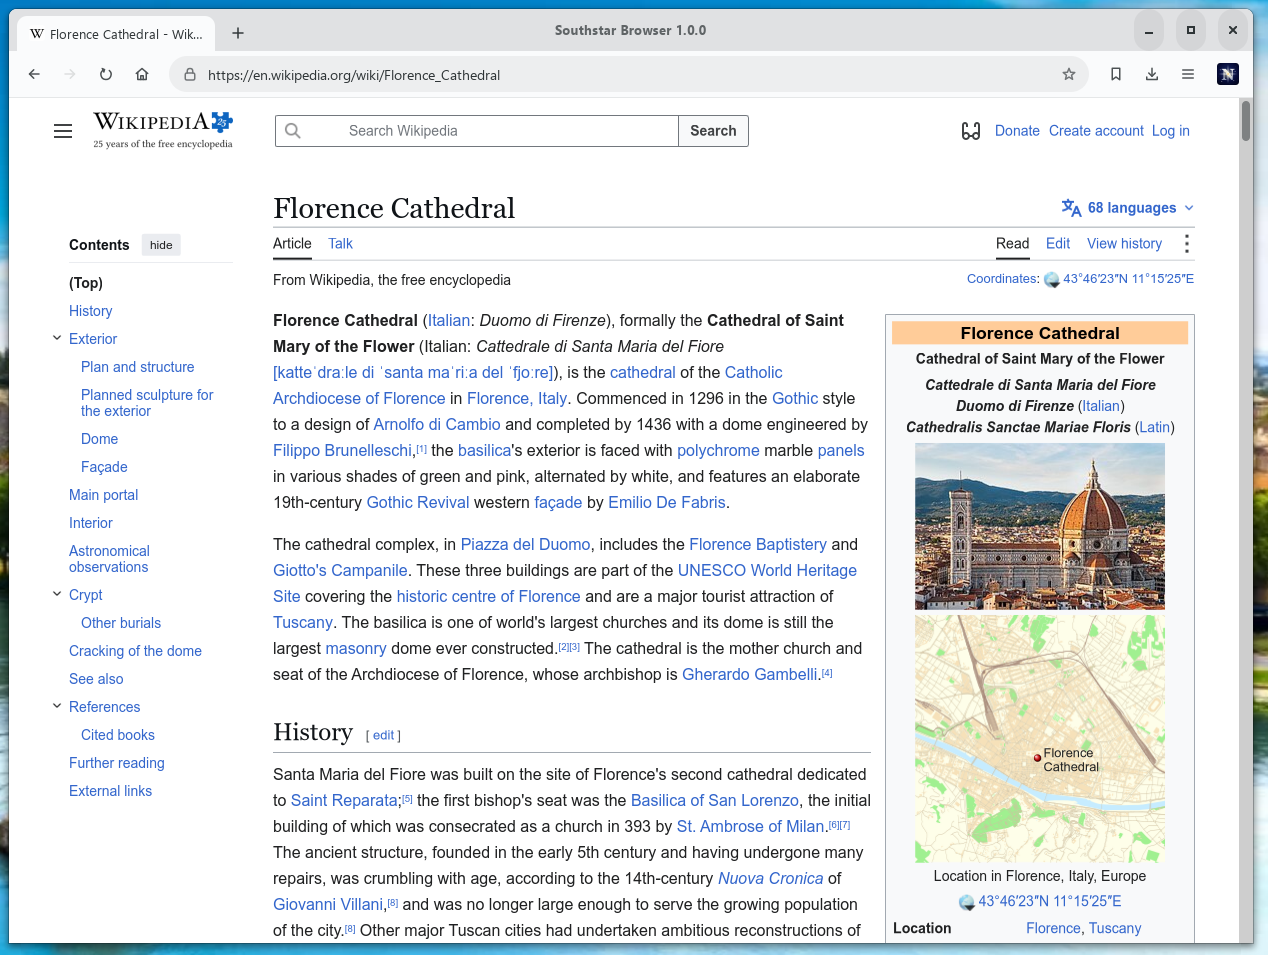
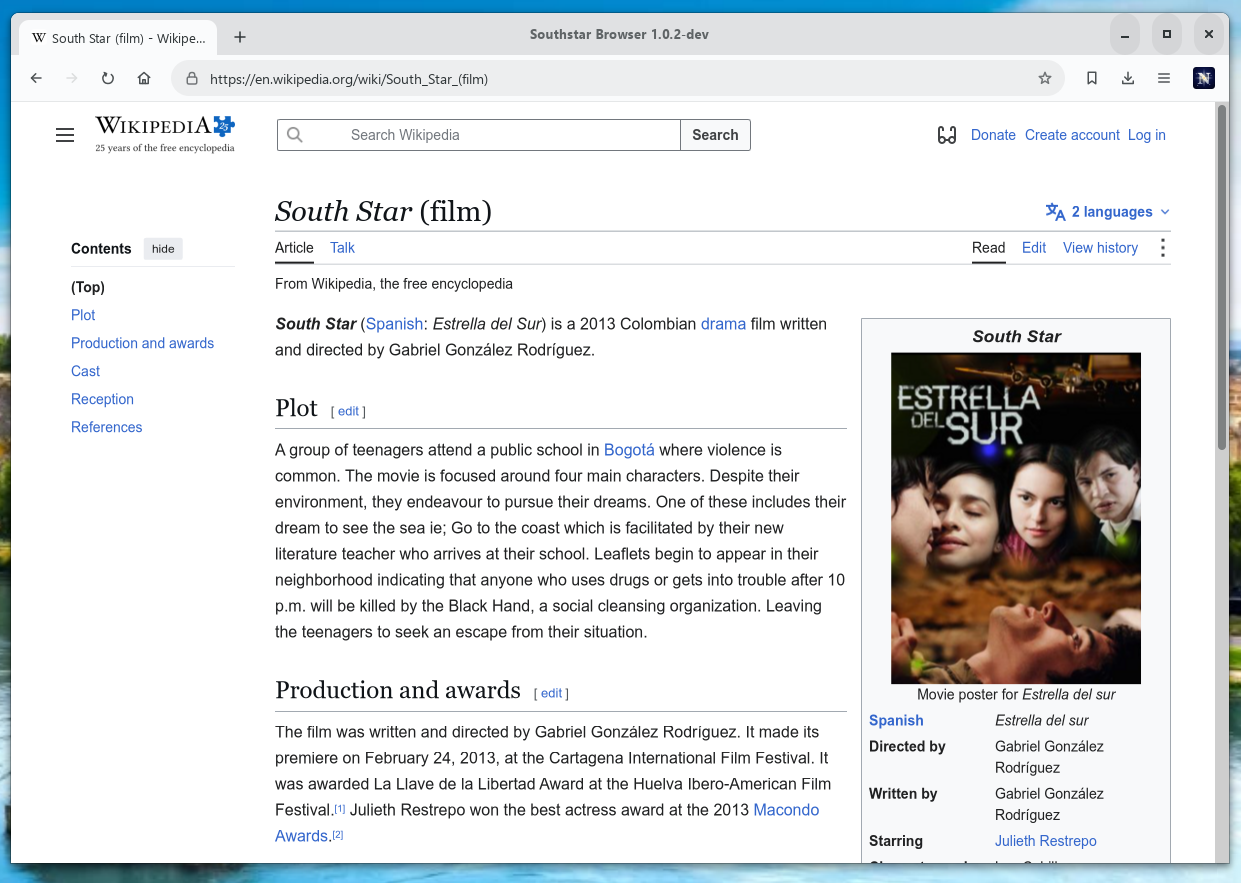
Update the README screenshot to the current build
The new screenshot shows Southstar Browser 1.0.2-dev on Windows rendering
the English Wikipedia article for South Star (film); the README's alt text
now describes it.

Changed region(s): [[0.0, 0.0, 1.0, 1.0], [0.7349, 0.1223, 0.9492, 0.1835]]

diff --git a/README.md b/README.md
@@ -14,7 +14,7 @@ C went, the QuickJS-ng engine included. All of Southstar's own code is now
 Rust; C remains only in the system libraries it links (GTK, Cairo, Pango,
 OpenSSL, FFmpeg, SDL2, …).
 
-![Southstar Browser showing its start page](docs/screenshot.png)
+![Southstar Browser showing a Wikipedia article](docs/screenshot.png)
 
 **JavaScript engine:** Southstar runs page JavaScript on
 [Boa](https://github.com/boa-dev/boa), a JavaScript engine written in Rust

diff --git a/Changelog.md b/Changelog.md
@@ -3,6 +3,8 @@ Changelog:
 
 Southstar Browser 1.0.2-dev:
 ======
+* The README screenshot shows the current build rendering a Wikipedia
+  article.
 * The MSIX package carries the Partner Center identity exactly: publisher
   display name Nordstjernen and the reserved app name Southstar Web
   Browser, so `scripts/pack-msix.sh` builds a Store-submittable package
